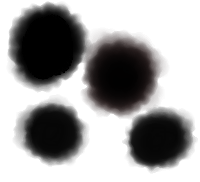
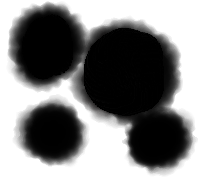
finished animation and clean up

Changed region(s): [[0.33, 0.0824, 0.96, 0.9615], [0.09, 0.5495, 0.42, 0.9066]]

diff --git a/src/pages/Home/home.css b/src/pages/Home/home.css
@@ -1,26 +1,65 @@
-.stars, .twinkling, .clouds
-{
+.stars,
+.twinkling,
+.clouds {
     position: absolute;
-    top: 0;
-    left: 0;
-    right: 0;
-    bottom: 0;
     width: 100%;
     height: 100%;
     display: block;
+    
 }
 
-.stars{
-    background: #000 url(https://raw.githubusercontent.com/Khanh-T-Tran/myportfolio-react/main/src/assets/images/stars.jpeg) top center;
-    z-index: 100 ;
+.stars {
+    background: #000 top center;
+    background-size: cover;
+    z-index: 0;
 }
-.twinkling{
-    background: transparent url() repeat top center;
+
+.twinkling {
+    background: transparent repeat top center;
     z-index: 1;
     animation: move-twink-back 200s linear infinite;
 }
+.clouds {
+    background: transparent;
+    z-index: 3;
+    animation: move-cloud-back 200s infinite;
+
+}
+
+.text {
+    font-family: 'Franklin Gothic Medium', 'Arial Narrow', Arial, sans-serif;
+    position: absolute;
+    color: rgb(207, 205, 205);
+    top: 30%;
+    left: 15%;
+    transform: translate((-50%,-50%));
+    font-size: 50px;
+    font-weight: 800;
+    z-index: 9;
+    opacity: 0.8;
+}
+
+.text:hover {
+    opacity: 1;
+    cursor: pointer;
+}
 
 @keyframes move-twink-back {
-    from { background-position: 0 0;}
-    to { background-position: -10000px 5000px;}
+    from {
+        background-position: 0 0;
+    }
+
+    to {
+        background-position: -10000px 5000px;
+    }
+}
+
+@keyframes move-cloud-back {
+    from {
+        background-position: 0 0;
+    }
+
+    to {
+        background-position: -10000px 5000px;
+    }
 }

diff --git a/src/pages/Home/index.js b/src/pages/Home/index.js
@@ -4,14 +4,17 @@ import "bootstrap/dist/css/bootstrap.css";
 import 'animate.css';
 import './home.css';
 
-// import Hoody from "../../assets/images/hoody.png"
+import darksky from '../../assets/images/darksky-stars.png';
+import spot from '../../assets/images/darkspots.png';
+// import cloud from '../../assets/images/darkcloud.png';
 
 const homePage = () => {
     return (
         <>
-            <div className="stars"></div>
-            <div className="twinkling"></div>
-            <div className="clouds"></div>
+            <div className="stars" style={{backgroundImage: `url(${darksky})` }}></div>
+            <div className="twinkling" style={{backgroundImage: `url(${spot})` }}></div>
+            {/* <div className="clouds" style={{backgroundImage: `url(${cloud})` }}></div> */}
+            <div className="text"> Hi! I am Khanh Tran, an enthusiastic full-stack web developer.</div>
         </>
     )
 }

diff --git a/src/components/Navbar/index.js b/src/components/Navbar/index.js
@@ -15,7 +15,6 @@ const fancyHeader = (props) => {
                     <Navbar.Collapse id="responsive-navbar-nav">
                         <Nav className="justify-content-end flex-grow-1 pe-3">
                             <Nav.Link className="tabs" href="#home" onClick={() => { props.changePage("Home") }}>Home</Nav.Link>
-                            <Nav.Link className="tabs" href="#about" onClick={() => { props.changePage("About") }}>About</Nav.Link>
                             <Nav.Link className="tabs" href="#skills" onClick={() => { props.changePage("Skills") }}>Skills</Nav.Link>
                             <Nav.Link className="tabs" href="#portfolio" onClick={() => { props.changePage("Portfolio") }}>Portfolio</Nav.Link>
                             <Nav.Link className="tabs" href="#contact" onClick={() => { props.changePage("Contact") }}>Contact</Nav.Link>

diff --git a/src/App.js b/src/App.js
@@ -2,7 +2,6 @@ import React, { useState } from 'react';
 
 // import pages
 import Home from './pages/Home';
-import About from './pages/About';
 import Skills from './pages/Skills';
 import Portfolio from './pages/Portfolio';
 import Contact from './pages/Contact';
@@ -26,8 +25,6 @@ function App() {
     switch (currentPage) {
       case "Home":
         return <Home />;
-      case "About":
-        return <About />;
       case "Skills":
         return <Skills />;
       case "Portfolio":

diff --git a/src/pages/About/about.css b/src/pages/About/about.css
@@ -4,7 +4,7 @@
     padding: 10%;
     height: 100%;  
     position: absolute;
-    background-image: linear-gradient( -360deg,  rgb(60, 62, 65) 7.8%, rgb(1, 30, 63) 100.3% );
+    background-image: linear-gradient( -360deg,  rgb(20, 23, 25) 7.8%, rgb(0, 4, 9) 100.3% );
     color: #fff;
     font-size: 20px;
     line-height: 35px;

diff --git a/src/pages/Skills/skills.css b/src/pages/Skills/skills.css
@@ -18,7 +18,7 @@ div.hero-image {
    /* position: inherit; */
    height: 100vh;
    width: 100%;
-   background-image: linear-gradient(   -360deg,  rgb(60, 62, 65) 7.8%, rgb(1, 30, 63) 100.3%   );
+   background-image: linear-gradient(  -360deg,  rgb(20, 23, 25) 7.8%, rgb(0, 4, 9) 100.3%  );
 }
 
 /* this is the cube dimentions */

diff --git a/src/pages/Contact/contact.css b/src/pages/Contact/contact.css
@@ -1,5 +1,5 @@
 .contact-container {
-  background-image: linear-gradient(   -360deg,  rgb(60, 62, 65) 7.8%, rgb(1, 30, 63) 100.3%   );
+  background-image: linear-gradient(   -360deg,  rgb(20, 23, 25) 7.8%, rgb(0, 4, 9) 100.3%  );
   background-size: cover;
   align-items: center;
   max-width: 100%;

diff --git a/src/pages/Portfolio/portfolio.css b/src/pages/Portfolio/portfolio.css
@@ -1,5 +1,5 @@
 .carousel-area {
-  background-image: linear-gradient(  -360deg,  rgb(60, 62, 65) 7.8%, rgb(1, 30, 63) 100.3%  );
+  background-image: linear-gradient(  -360deg,  rgb(20, 23, 25) 7.8%, rgb(0, 4, 9) 100.3% );
   text-align: center;
   display: block;
   height: 100vh;

diff --git a/src/components/Footer/footer.css b/src/components/Footer/footer.css
@@ -3,7 +3,7 @@
     position: fixed;
     bottom: 0;  
     background-color: rgb(0, 0, 0);
-    
+    z-index: 9;
 }
 
 .social-media-icons-white a {

diff --git a/src/index.css b/src/index.css
@@ -13,4 +13,3 @@ code {
     monospace;
 }
 
-
